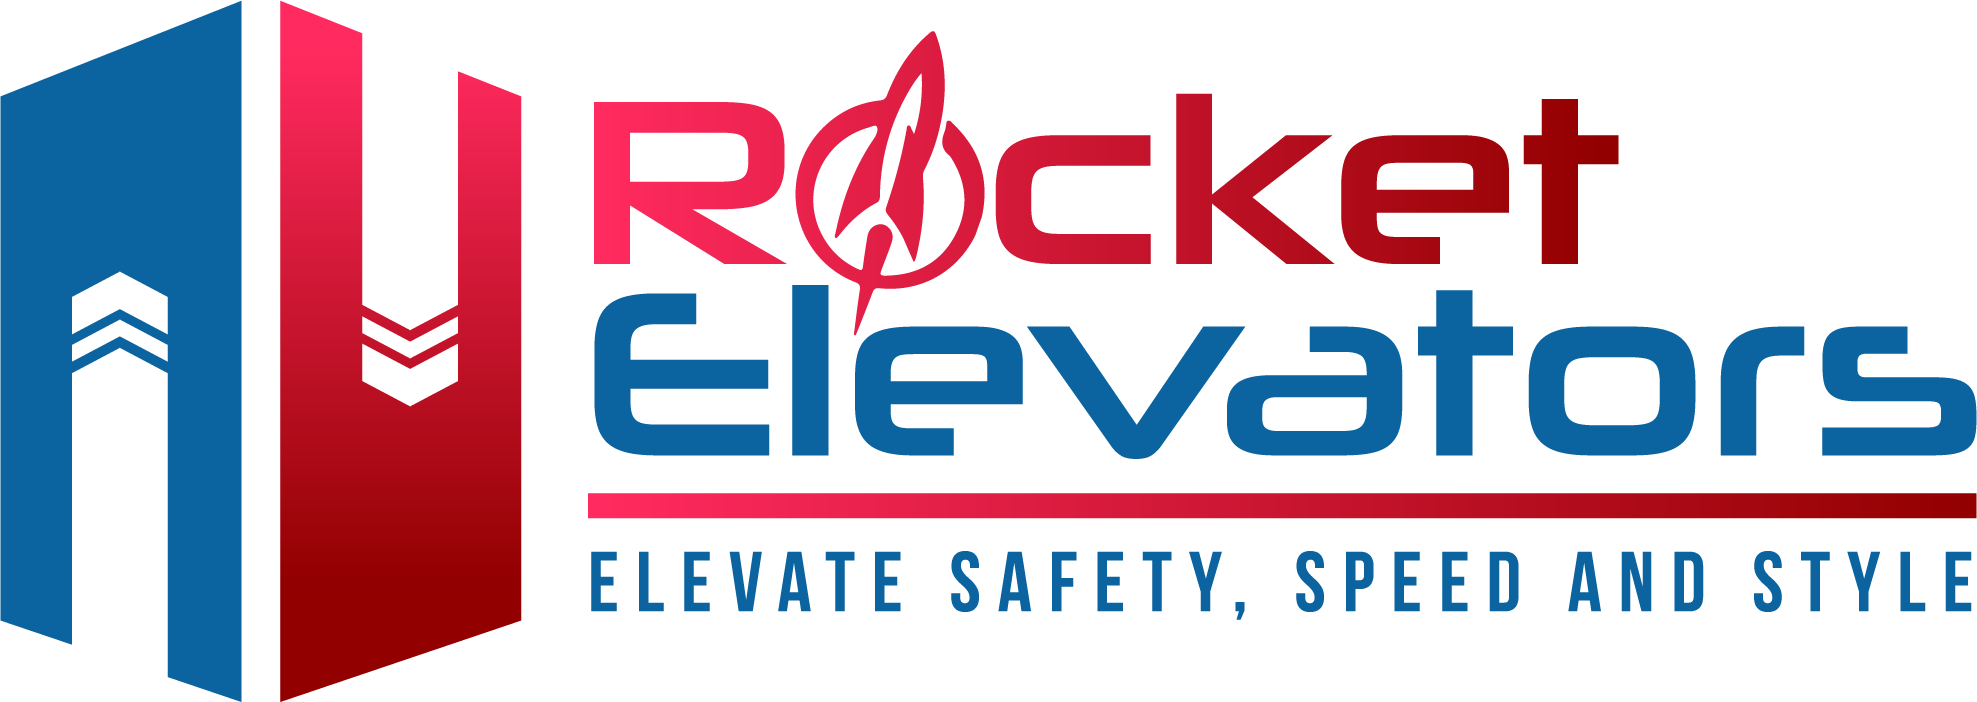
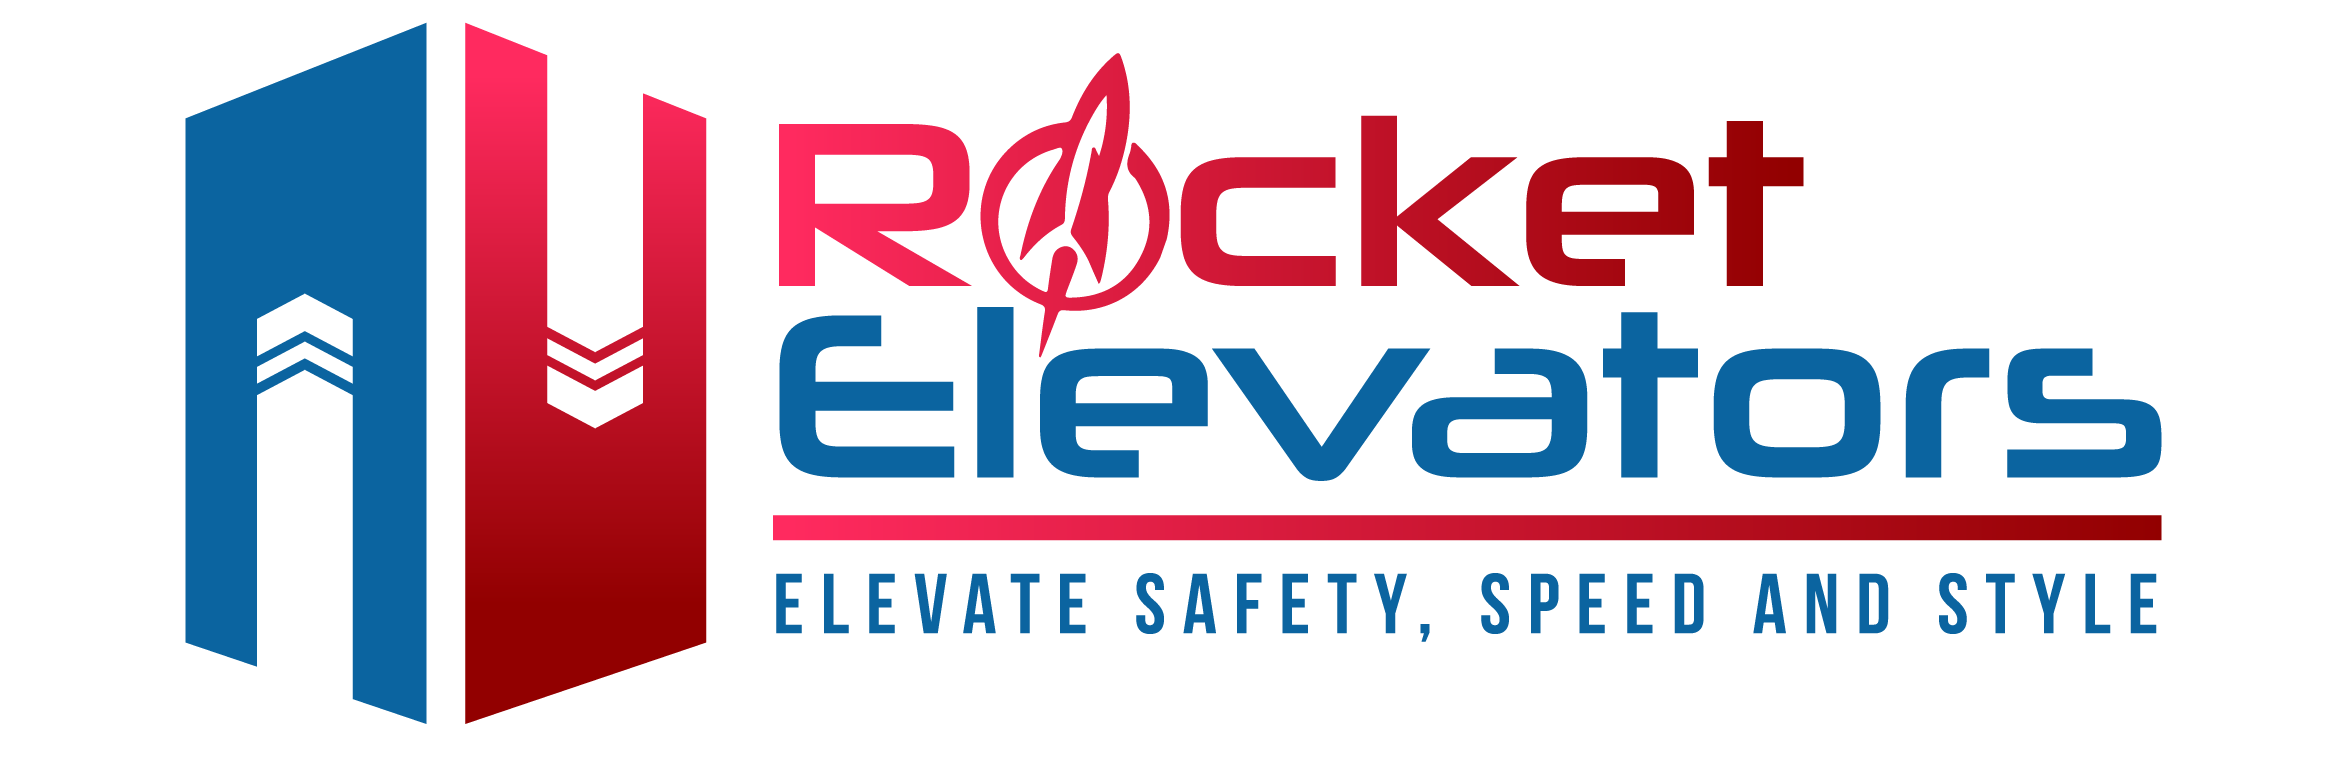
add photos news

diff --git a/Smarty/HTML_BS4/index.html b/Smarty/HTML_BS4/index.html
@@ -136,7 +136,7 @@
 
 						<!-- Logo -->
 						<a class="logo float-left scrollTo" href="#top">
-							<img src="assets/images/_rocket/R2.png" alt="" />
+							<img src="assets/images/_rocket/R2.jpg" alt="" />
 						</a>
 
 						<!-- 
@@ -1051,7 +1051,7 @@
 					<div class="owl-carousel owl-padding-10 buttons-autohide controlls-over" data-plugin-options='{"singleItem": false, "items":"4", "autoPlay": 4000, "navigation": true, "pagination": false}'>
 						<div class="img-hover">
 							<a href="blog-single-default.html">
-								<img class="img-fluid" src="demo_files/images/451x300/24-min.jpg" alt="">
+								<img class="img-fluid" src="assets/images/_rocket/news/news01.jpg" alt="">
 							</a>
 
 							<h4 class="text-left mt-20"><a href="blog-single-default.html">Lorem Ipsum Dolor</a></h4>
@@ -1071,7 +1071,7 @@
 						</div>
 						<div class="img-hover">
 							<a href="blog-single-default.html">
-								<img class="img-fluid" src="demo_files/images/451x300/17-min.jpg" alt="">
+								<img class="img-fluid" src="assets/images/_rocket/news/news02.jpg" alt="">
 							</a>
 
 							<h4 class="text-left mt-20"><a href="blog-single-default.html">Lorem Ipsum Dolor</a></h4>
@@ -1091,7 +1091,7 @@
 						</div>
 						<div class="img-hover">
 							<a href="blog-single-default.html">
-								<img class="img-fluid" src="demo_files/images/451x300/30-min.jpg" alt="">
+								<img class="img-fluid" src="assets/images/_rocket/news/news03.jpg" alt="">
 							</a>
 
 							<h4 class="text-left mt-20"><a href="blog-single-default.html">Lorem Ipsum Dolor</a></h4>
@@ -1111,7 +1111,7 @@
 						</div>
 						<div class="img-hover">
 							<a href="blog-single-default.html">
-								<img class="img-fluid" src="demo_files/images/451x300/26-min.jpg" alt="">
+								<img class="img-fluid" src="assets/images/_rocket/news/news04.jpg" alt="">
 							</a>
 
 							<h4 class="text-left mt-20"><a href="blog-single-default.html">Lorem Ipsum Dolor</a></h4>
@@ -1131,7 +1131,7 @@
 						</div>
 						<div class="img-hover">
 							<a href="blog-single-default.html">
-								<img class="img-fluid" src="demo_files/images/451x300/18-min.jpg" alt="">
+								<img class="img-fluid" src="assets/images/_rocket/news/news05.jpg" alt="">
 							</a>
 							<h4 class="text-left mt-20"><a href="blog-single-default.html">Lorem Ipsum Dolor</a></h4>
 							<p class="text-left">Lorem ipsum dolor sit amet, consectetur adipisicing elit. Cupiditate, asperiores quod est tenetur in.</p>
@@ -1150,7 +1150,7 @@
 						</div>
 						<div class="img-hover">
 							<a href="blog-single-default.html">
-								<img class="img-fluid" src="demo_files/images/451x300/34-min.jpg" alt="">
+								<img class="img-fluid" src="assets/images/_rocket/news/news06.jpg" alt="">
 							</a>
 							<h4 class="text-left mt-20"><a href="blog-single-default.html">Lorem Ipsum Dolor</a></h4>
 							<p class="text-left">Lorem ipsum dolor sit amet, consectetur adipisicing elit. Cupiditate, asperiores quod est tenetur in.</p>
@@ -1164,95 +1164,15 @@
 										<i class="fa fa-comments"></i> 
 										3
 									</a>
-								</li><a href="#" class="btn btn-xlg btn-primary fs-20 fullwidth m-0 rad-0 p-40">
-									</a>
 							</ul>
-						</div>
-						<div class="img-hover">
-							<a href="blog-single-default.html">
-								<img class="img-fluid" src="demo_files/images/451x300/37-min.jpg" alt="">
-							</a>
-							<h4 class="text-left mt-20"><a href="blog-single-default.html">Lorem Ipsum Dolor</a></h4>
-							<p class="text-left">Lorem ipsum dolor sit amet, consectetur adipisicing elit. Cupiditate, asperiores quod est tenetur in.</p>
-							<ul class="text-left fs-12 list-inline list-separator">
-								<li>
-									<i class="fa fa-calendar"></i> 
-									29th Jan 2017
-								</li>
-								<li>
-									<a href="blog-single-default.html#comments">
-										<i class="fa fa-comments"></i> 
-										3
-									</a>
-								</li>
-							</ul>
-						</div>
-						<div class="img-hover">
-							<a href="blog-single-default.html">
-								<img class="img-fluid" src="demo_files/images/451x300/23-min.jpg" alt="">
-							</a>
-							<h4 class="text-left mt-20"><a href="blog-single-default.html">Lorem Ipsum Dolor</a></h4>
-							<p class="text-left">Lorem ipsum dolor sit amet, consectetur adipisicing elit. Cupiditate, asperiores quod est tenetur in.</p>
-							<ul class="text-left fs-12 list-inline list-separator">
-								<li>
-									<i class="fa fa-calendar"></i> 
-									29th Jan 2017
-								</li>
-								<li>
-									<a href="blog-single-default.html#comments">
-										<i class="fa fa-comments"></i> 
-										3
-									</a>
-								</li>
-							</ul>
-						</div>
+						</div>	
 					</div>
 
 				</div>
 			</section>
 			<!-- /News -->
 
-
-
-
-			<!-- Overview -->
-			<section id="overview">
-				<div class="container text-center">
-
-					<div class="row text-left">
-
-						<div class="col-sm-8">
-							<img src="demo_files/images/laptop.png" alt="product image" />
-						</div>
-
-						<div class="col-sm-4">
-							<h3 class="fw-300">Quick <span>Overview</span></h3>
-						
-							<p>Lorem ipsum dolor sit amet, hinc dolores noluisse at vel, ex quod aperiri scaevola has, cum te sanctus denique. Eu liber docendi petentium has, labore.</p>
-							<p>Etiam falli mentitum id mel, ut mel sumo postulant referrentur. At has minim imperdiet, soluta offendit ocurreret sea an. </p>
-							
-							<hr />
-
-							<ul class="list-unstyled list-icons">
-								<li><i class="fa fa-check"></i> Nobis nemore epicuri pro ea</li>
-								<li><i class="fa fa-check"></i> Qui dicunt singulis dissentias an</li>
-								<li><i class="fa fa-check"></i> Ea vis diceret constituam</li>
-								<li><i class="fa fa-check"></i> Mei no autem idque integre, sumo facilis</li>
-								<li><i class="fa fa-check"></i> Est quodsi labitur moderatius an</li>
-							</ul>
-
-						</div>
-					</div>
-
-				</div>
-			</section>
-			<!-- /Overview -->
-
-
-
-
-
-			<!-- Clients -->
+						<!-- Clients -->
 			<section id="clients" class="alternate">
 				<div class="container">
 
@@ -1388,20 +1308,24 @@
 												<input required type="text" value="" class="form-control" name="contact[business name][required]" id="contact:business name">
 											</div>
 											<div class="col-md-4">
-												<label for="contact:email">E-mail Address *</label>
-												<input required type="email" value="" class="form-control" name="contact[email][required]" id="contact:email">
-											</div>
-											<div class="col-md-4">
 												<label for="contact:phone">Phone</label>
 												<input type="text" value="" class="form-control" name="contact[phone]" id="contact:phone">
 											</div>
-											<div class="col-md-8">
+									</div>
+									<div class="row">
+											<div class="col-md-4">
 												<label for="contact:subject">Projet Name *</label>
 												<input required type="text" value="" class="form-control" name="contact[projet name][required]" id="contact:project name">
 											</div>
 											<div class="col-md-8">
 												<label for="contact:subject">Projet Description *</label>
 												<input required type="text" value="" class="form-control" name="contact[projet description][required]" id="contact:project description">
+											</div>	
+									</div>
+									<div class="row">
+											<div class="col-md-8">
+												<label for="contact:email">E-mail Address *</label>
+												<input required type="email" value="" class="form-control" name="contact[email][required]" id="contact:email">
 											</div>
 											<div class="col-md-4">
 												<label for="contact_department">Department</label>
@@ -1414,12 +1338,12 @@
 												</select>
 											</div>
 									</div>
-									<div class="row">
+									<div class="row">		
 											<div class="col-md-12">
-												<label for="contact:message">Message *</label>
-												<textarea required maxlength="10000" rows="8" class="form-control" name="contact[message]" id="contact:message"></textarea>
-											</div>
-									</div>
+										<label for="contact:message">Message *</label>
+										<textarea required maxlength="10000" rows="8" class="form-control" name="contact[message]" id="contact:message"></textarea>
+									       </div>	
+									</div>									
 									<div class="row">
 											<div class="col-md-12">
 												<label for="contact:attachment">File Attachment</label>
